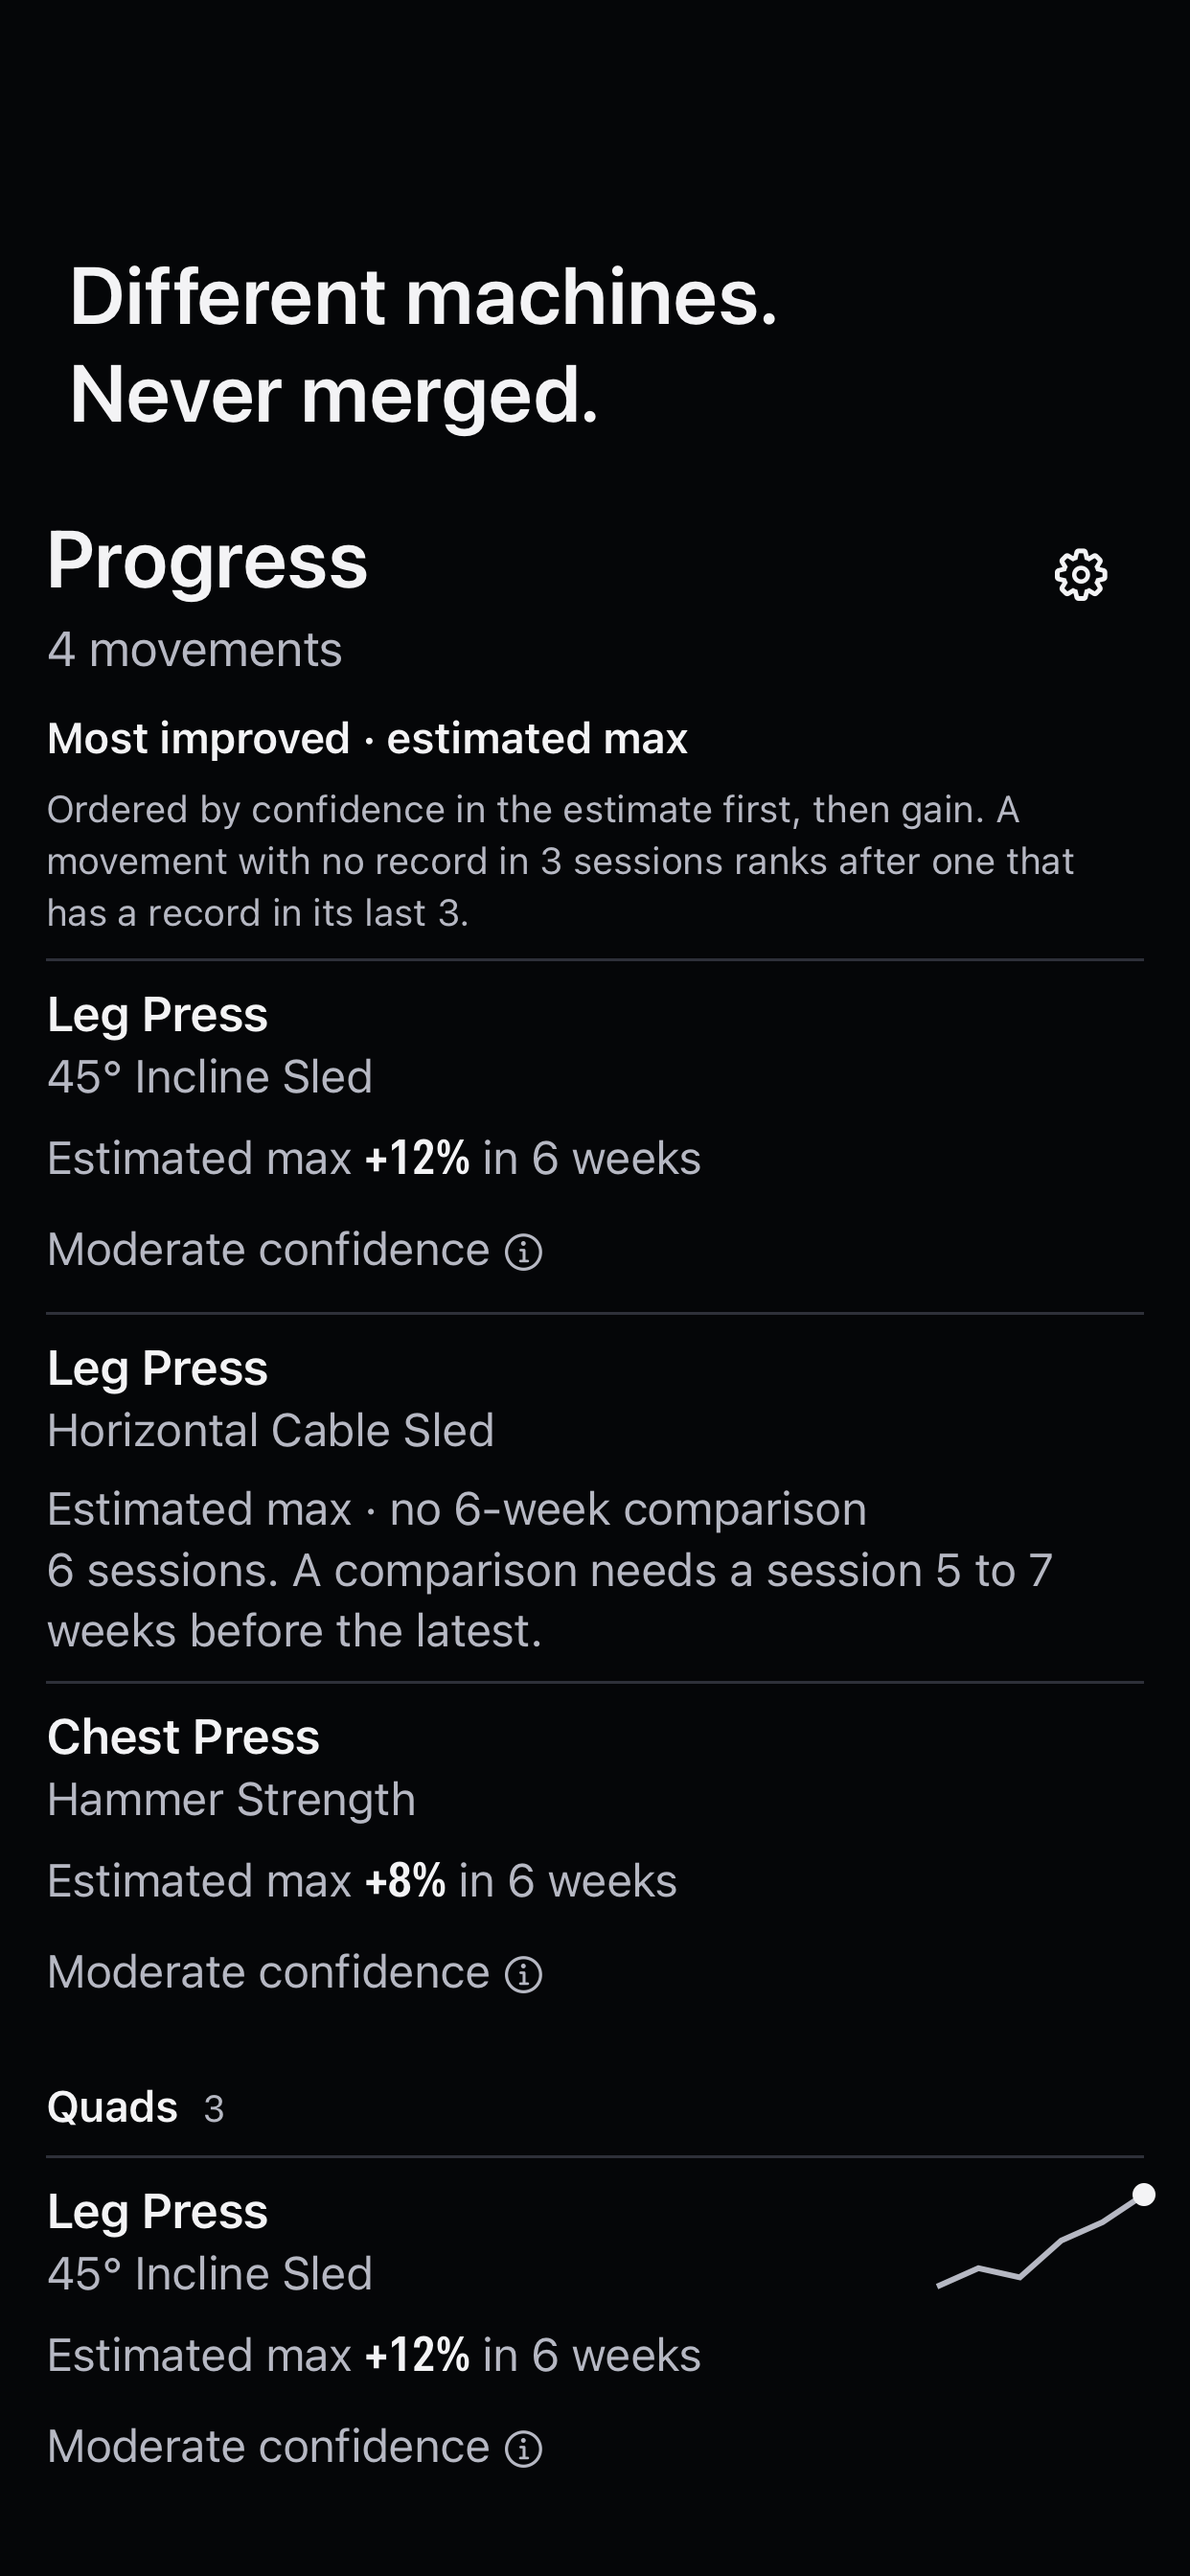
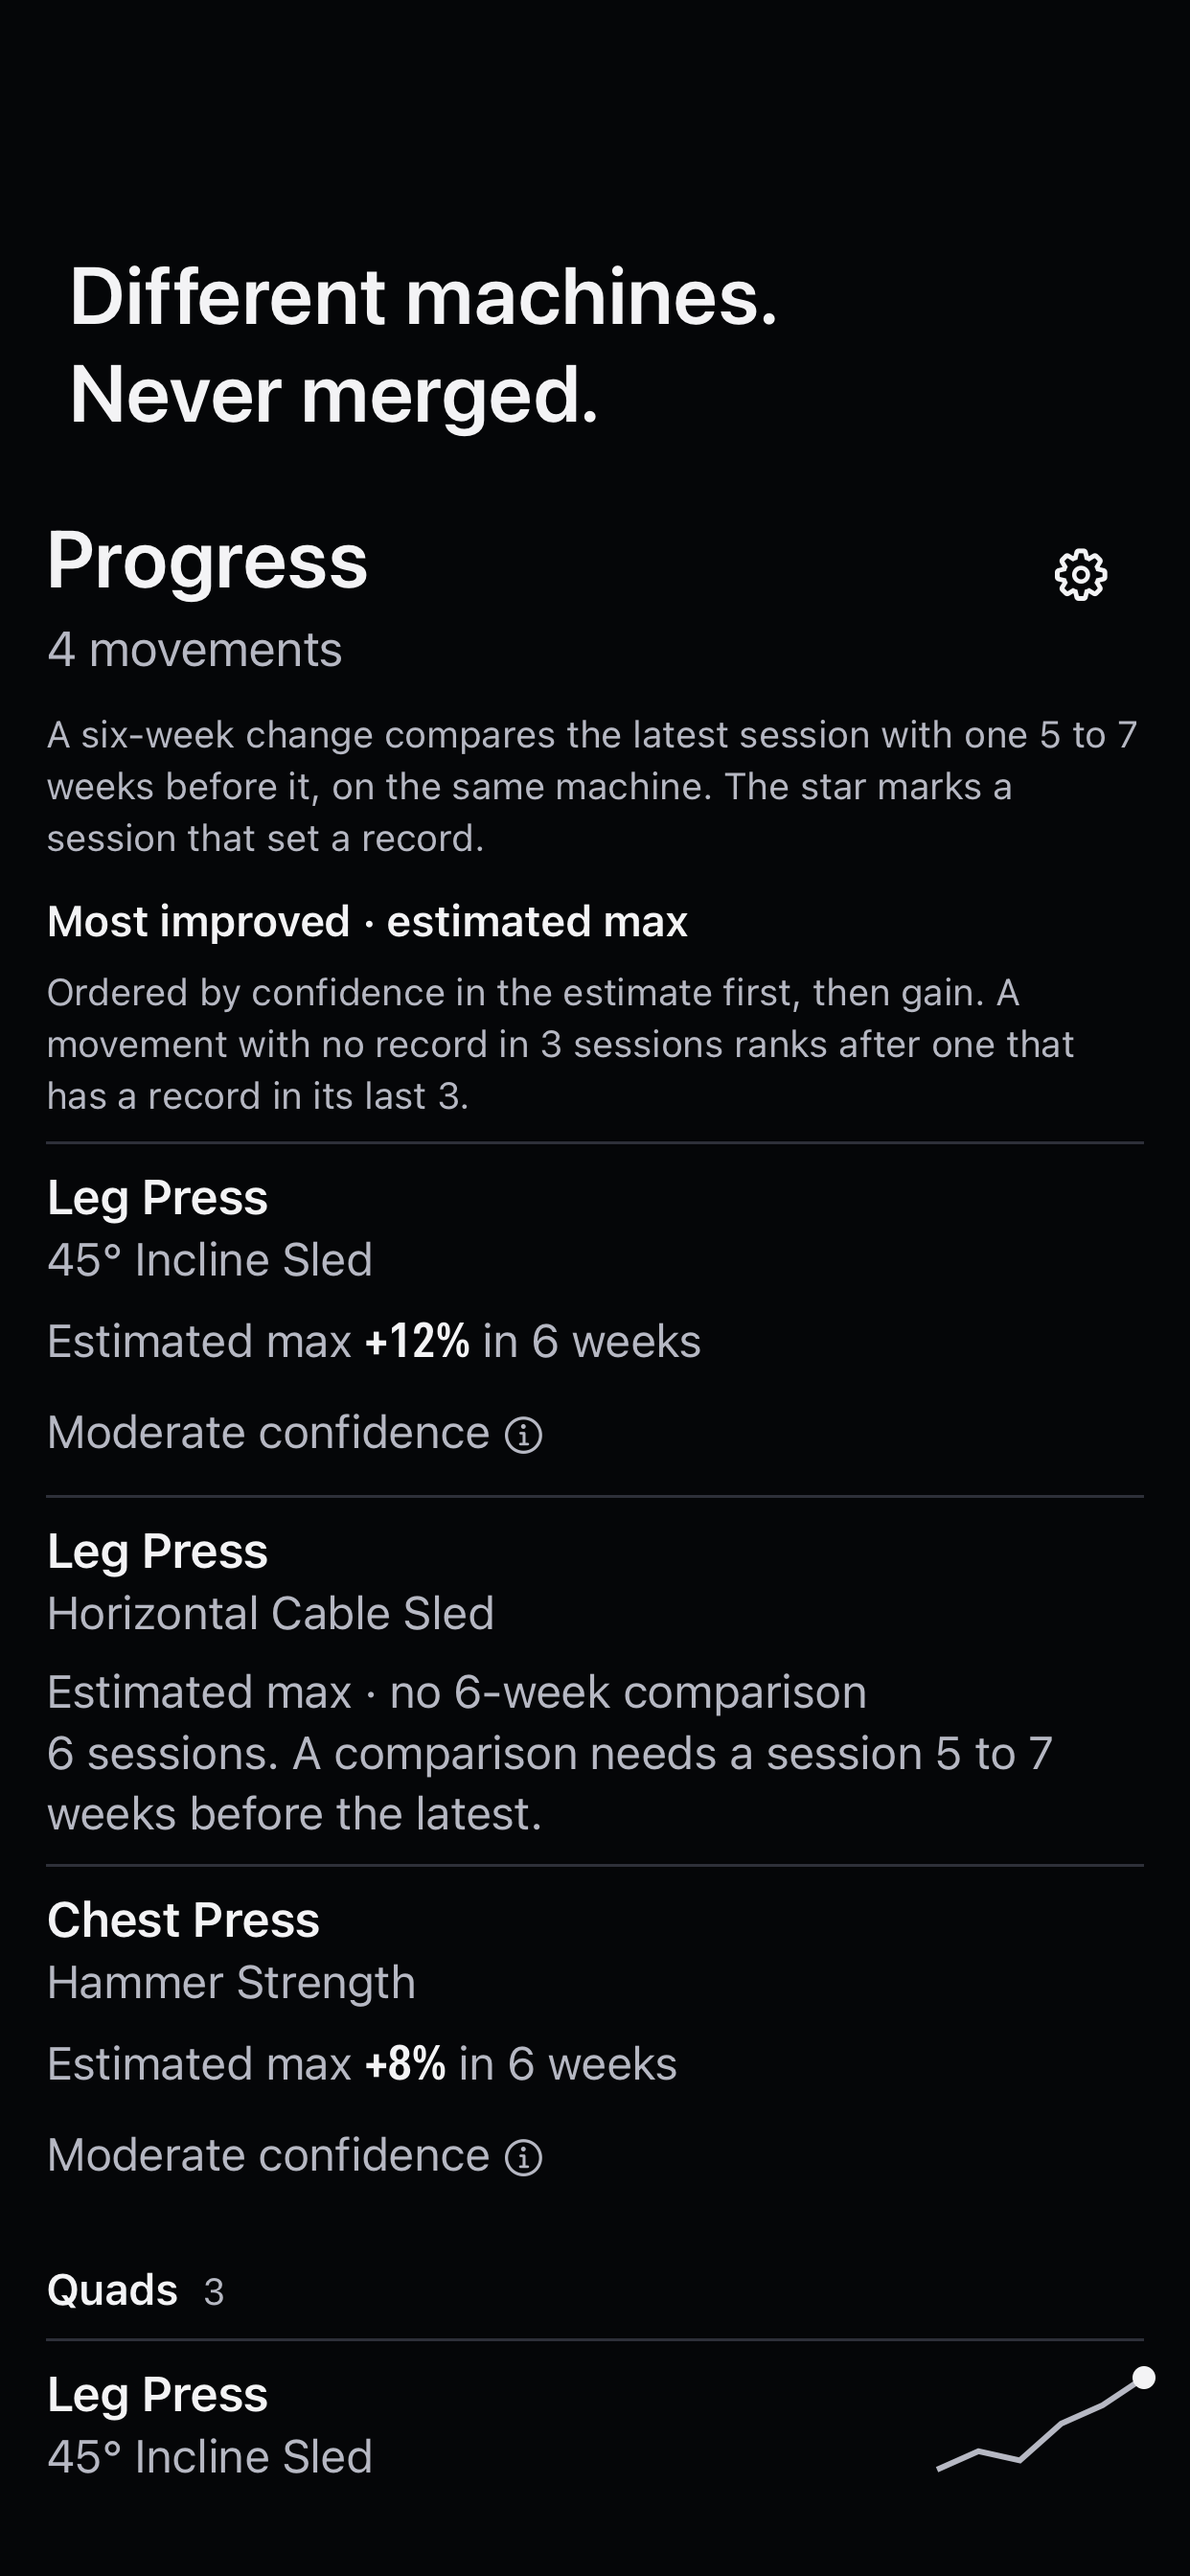
Regenerate the store gallery: a producible first shot and the muscle history screen

diff --git a/docs/release/screenshots/README.md b/docs/release/screenshots/README.md
@@ -27,7 +27,10 @@ the screen, at 3x. The screen itself is the live view at the width of the target
   "+10 lb" beat mark, and the third row is next up. The record panel is whatever
   `PersonalRecordDetector.records` returns for 225 lb × 8 against that history; nothing in it is
   typed. The rest timer is running. There is no "From another machine" note: this is a
-  same-machine state, which is the only state in which the app can announce a record.
+  same-machine state, which is the only state in which the app can announce a record. The
+  two-record notice and the rest bar cover most of the list at phone height, so the card hosts
+  the live screen taller than itself and shows its lower part: the title and gym line are
+  cropped away, and the three rows, the notice and the rest bar stay on screen.
 - **Volume.** 14 working sets in the last 7 days, with Chest 10, Front delts 7.5 and
   Triceps 6 visible. The screen's own disclosure says there is no target line because no
   weekly set target is established, and "Not evaluated" is explained. "Worked from" and
@@ -43,7 +46,8 @@ the screen, at 3x. The screen itself is the live view at the width of the target
   muscle, Side delts included, reads "No credited sets". Twelve weeks of sets include one zero
   week, and the last four weeks sit above the four before. There is no imported history. The
   figures come from `MuscleHistoryAnalyzer.history` over counts and weekly reports derived from
-  one attribution.
+  one attribution. The card shows the sheet below its title and explanatory text, cropped the
+  same way, so the Side delts "No credited sets" row is on screen.
 
 ## Regenerate
 
